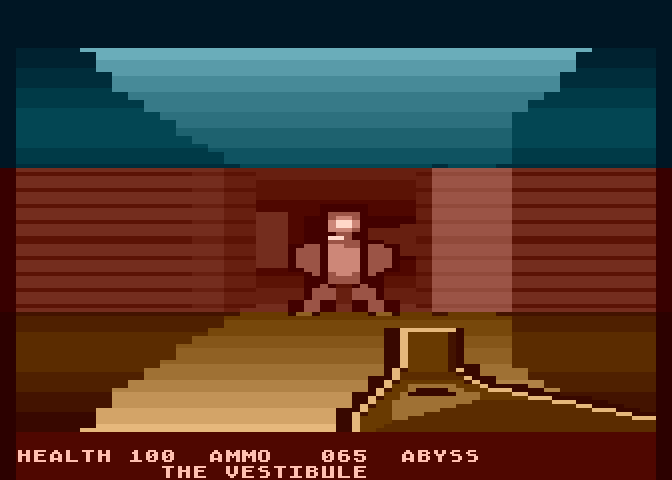
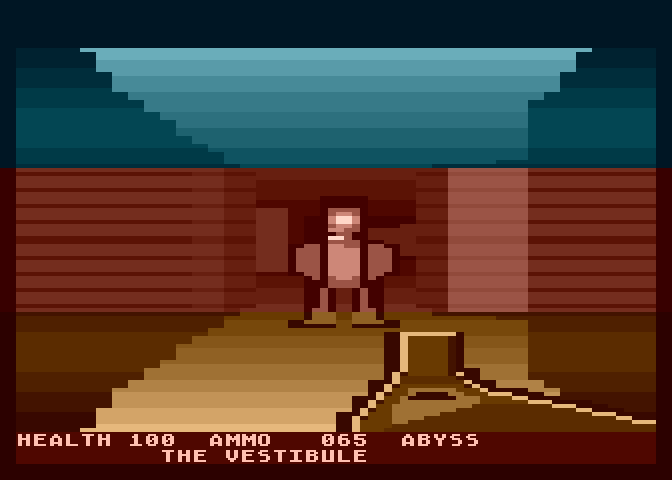
Fix the rolling picture: display list was 248 scanlines, limit is 240
ANTIC displays scanlines 8..247 and starts vertical blank at 248, so a display
list may ask for at most 240 scanlines. This one asked for 248 -- 24 blank + 192
view + FOUR rows of ANTIC 2 text -- so the last status row was still doing
playfield DMA when the vertical sync should have been, and the picture would not
lock on a real 800XL.

Two of the four status rows were always blank; only HUDRAM+40 (health and ammo)
and HUDRAM+80 (the level name) carry anything. Starting the text band at +40 and
drawing two rows costs nothing visible and brings the frame to 232 scanlines,
eight inside the limit rather than eight outside it.

atari800 renders a fixed 240-line window: ask it for 248 and it clips the
overflow and returns a stable frame. It cannot show a CRT losing lock, so the
frame's LENGTH has to be computed and asserted rather than looked at. The sweep
now walks both display lists out of live RAM -- what ANTIC executes is whatever
build_dlist actually wrote -- and fails if either exceeds 240.

56/56.

diff --git a/tools/verify.py b/tools/verify.py
@@ -306,6 +306,18 @@ class Sweep:
         # Every configuration difference between the harness and the target is a
         # place a bug can live for free. This one is now checked; the general
         # lesson is in the DEVLOG.
+        # THE OTHER ONE THE HARNESS HAD NO OPINION ABOUT. ANTIC displays
+        # scanlines 8..247 and starts vertical blank at 248, so a display list
+        # may ask for at most 240 scanlines. This one asked for 248 and the
+        # picture rolled on a real 800XL -- while atari800 rendered a fixed
+        # 240-line window, clipped the overflow and produced a stable frame in
+        # every one of 130 runs. The emulator cannot show you a CRT losing lock,
+        # so the frame's LENGTH has to be asserted rather than looked at.
+        dls = self.dlist_scanlines()
+        self.chk('the display list fits in a frame',
+                 all(n <= 240 for n in dls),
+                 'scanlines per display list: %s (limit 240)' % dls)
+
         rb, hb = self.runs_with_basic()
         self.chk('runs with BASIC enabled, as a real XL boots',
                  rb > 0 and hb == 100,
@@ -437,6 +449,39 @@ class Sweep:
             if m[WKICK]:
                 kick += 1
         return flash, kick
+
+    # ANTIC scanlines per display-list instruction, by mode nibble.
+    _ANTIC_LINES = {0x2: 8, 0x3: 10, 0x4: 8, 0x5: 16, 0x6: 8, 0x7: 16, 0x8: 8,
+                    0x9: 4, 0xA: 4, 0xB: 2, 0xC: 1, 0xD: 2, 0xE: 1, 0xF: 1}
+
+    def dlist_scanlines(self):
+        """Walk both display lists out of live RAM and total their scanlines.
+
+        Out of RAM rather than out of the source, because what ANTIC executes is
+        whatever build_dlist actually wrote -- and build_dlist is a loop with an
+        LMS per row, which is exactly the kind of thing that is easy to get one
+        iteration wrong in.
+        """
+        s = Sweep(self.xex)
+        s.a.frame(80)
+        m = s.m()
+        out = []
+        for base in (0x4000, 0x4400):
+            a, lines = base, 0
+            for _ in range(400):
+                b = m[a]
+                mode = b & 0x0F
+                if mode == 0x01:                    # jump / JVB ends the list
+                    break
+                if mode == 0x00:                    # 1-8 blank scanlines
+                    lines += ((b >> 4) & 7) + 1
+                else:
+                    lines += self._ANTIC_LINES[mode]
+                    if b & 0x40:                    # LMS: skip the address
+                        a += 2
+                a += 1
+            out.append(lines)
+        return out
 
     def runs_with_basic(self):
         """World frames rendered and health, on a machine with BASIC ROM in.

diff --git a/README.md b/README.md
@@ -14,20 +14,29 @@
   <img src="https://img.shields.io/badge/PAL-64K-8b1a1a">
   <img src="https://img.shields.io/badge/6502-assembly-333">
   <img src="https://img.shields.io/badge/binary-28%2C723%20bytes-333">
-  <img src="https://img.shields.io/badge/acceptance%20sweep-55%2F55-2e7d32">
+  <img src="https://img.shields.io/badge/acceptance%20sweep-56%2F56-2e7d32">
 </p>
 
 ---
 
-> **Status — playable prototype, one hardware run so far.**
-> The first run on a real PAL 800XL (via a Lotharek SDIO card) rolled and
-> corrupted on load: three modules live in `$A000–$BFFF`, which is the BASIC ROM
-> on an XL, and the emulator defaults to BASIC *disabled* while the hardware
-> defaults to it *enabled*. Fixed with an INIT segment that clears PORTB bit 1
-> before those segments load; the acceptance sweep now runs the whole program
-> with BASIC enabled too. **The fixed build has not yet been back to the 800XL.**
-> Everything else here is emulator-measured, and that bug is the standing proof
-> that emulator-measured is not the same thing as true.
+> **Status — playable prototype, two hardware runs, two bugs found.**
+>
+> **Run 1** on a real PAL 800XL (via a Lotharek SDIO card): corrupted on load.
+> Three modules live in `$A000–$BFFF`, which is the BASIC ROM on an XL — and the
+> emulator defaults to BASIC *disabled* while the hardware defaults to it
+> *enabled*. Fixed with an INIT segment that clears PORTB bit 1 before those
+> segments load.
+>
+> **Run 2**: the title screen renders correctly, and the picture rolls. The
+> display list asked ANTIC for **248 scanlines** against a hard limit of 240, so
+> the last status row was still doing playfield DMA when the vertical sync should
+> have been. Two of the four status rows were blank, so dropping them costs
+> nothing visible and brings the frame to 232. **Not yet retested on hardware.**
+>
+> Neither bug was visible to the emulator, for two different reasons: it booted a
+> configuration the hardware doesn't, and it renders a fixed 240-line window so it
+> physically cannot show a CRT losing lock. Both are now asserted by the sweep.
+> That is the standing proof that emulator-measured is not the same as true.
 
 ---
 
@@ -208,7 +217,7 @@ process** — no emulator subprocess, nothing to leave running afterwards.
 
 | | |
 |---|---|
-| **Acceptance sweep** | **55 / 55** |
+| **Acceptance sweep** | **56 / 56** |
 | Full playthrough | all four levels, ~22 shots, 0 deaths — path-finding to each **real** exit |
 | Render rate | 11.9 fps empty corridor, 9.3 fps with an enemy in your face |
 | Endurance, one boot | **60,000 frames**, 103 deaths and retries, **0 invariant failures** |
@@ -232,7 +241,9 @@ number.
 Stated plainly, because a prototype that oversells itself is worse than one that
 doesn't.
 
-- **One hardware run so far, and it failed.** See the status note at the top.
+- **Two hardware runs, two bugs, not yet retested.** See the status note at the
+  top. Both were things the emulator cannot observe, which is the most useful
+  thing this project has learned.
 - **No keys or locked doors.** The map format supports them and two levels author
   them, so the level compiler compiles locked doors down to plain ones rather
   than ship levels whose exits cannot be reached.
@@ -257,7 +268,7 @@ doesn't.
 
 ```sh
 ./build.sh                     # -> abyss.xex
-python3 tools/verify.py        # 55-point acceptance sweep, in process
+python3 tools/verify.py        # 56-point acceptance sweep, in process
 python3 tools/metrics.py       # what the picture actually contains, measured
 python3 tools/gallery.py       # screenshots, each checked against game state
 ```

diff --git a/DEVLOG.md b/DEVLOG.md
@@ -1628,3 +1628,63 @@ correct?" but "what does every one of these readings have in common?"
 The honest note: `--machine=-nobasic` was already written down in my own
 reference notes for this toolchain, as a gotcha, in those words. I had recorded
 the difference and never asked what it implied about anything running under it.
+
+## Second hardware run: the title screen appears, and the picture still rolls
+
+The BASIC fix worked — the wordmark and the tagline both render correctly, so
+everything above `$A000` is executing from RAM now. The picture still rolled.
+
+That is a vertical sync fault, and this time the cause is arithmetic rather than
+memory. ANTIC displays scanlines 8..247 and begins vertical blank at 248, so a
+display list may ask for **at most 240 scanlines**. Walking both display lists
+out of live RAM and totalling them:
+
+    DLIST A: 248 scanlines
+    DLIST B: 248 scanlines
+
+24 blank + 96 rows shown twice (192) + **four** rows of ANTIC 2 text (32) = 248.
+The last text row was still doing playfield DMA while ANTIC should have been
+generating sync. Eight scanlines over, and a frame eight lines too long is a
+picture that will not lock.
+
+Two of those four text rows were blank. Only `HUDRAM+40` (health and ammo) and
+`HUDRAM+80` (the level name) ever carry anything — I had measured exactly that
+hours earlier, when checking the banner strings, and read it as a curiosity
+rather than as sixteen spare scanlines. Starting the text band at `+40` and
+drawing two rows costs nothing visible and brings the list to **232**: eight
+inside the limit instead of eight outside it.
+
+### Why 130 green runs could not see it
+
+**atari800 renders a fixed 240-line window.** Ask it for 248 and it clips the
+overflow and hands back a stable, correct-looking frame. It cannot show you a
+CRT losing lock, because it does not model a CRT at all — it models a
+framebuffer.
+
+So this is not the harness testing the wrong machine, as the BASIC bug was. It
+is the harness being *structurally incapable* of observing the failure, which is
+worse, because no amount of looking at its output would ever have helped. The
+frame's LENGTH is not visible in a picture of the frame. It has to be computed
+from the display list and asserted.
+
+It now is, out of live RAM rather than out of the source — because what ANTIC
+executes is whatever `build_dlist` actually wrote, and `build_dlist` is a loop
+with an LMS per row, which is precisely the sort of thing that is easy to get one
+iteration wrong in.
+
+### The pattern, now that there are two of them
+
+Both hardware bugs were in the same blind spot and neither was subtle:
+
+| | the emulator | a real 800XL |
+|---|---|---|
+| `$A000-$BFFF` | RAM by default | BASIC ROM by default |
+| a 248-line display list | clipped, drawn stable | rolls |
+
+**An emulator is a model, and every bug you ship to hardware lives in the gap
+between the model and the machine.** The useful question is not "does it pass?"
+but "what can this harness not, even in principle, tell me?" Two answers so far:
+it cannot tell me the machine's default configuration is different from its own,
+and it cannot tell me a frame is the wrong length. Both are now checked.
+
+56/56.
